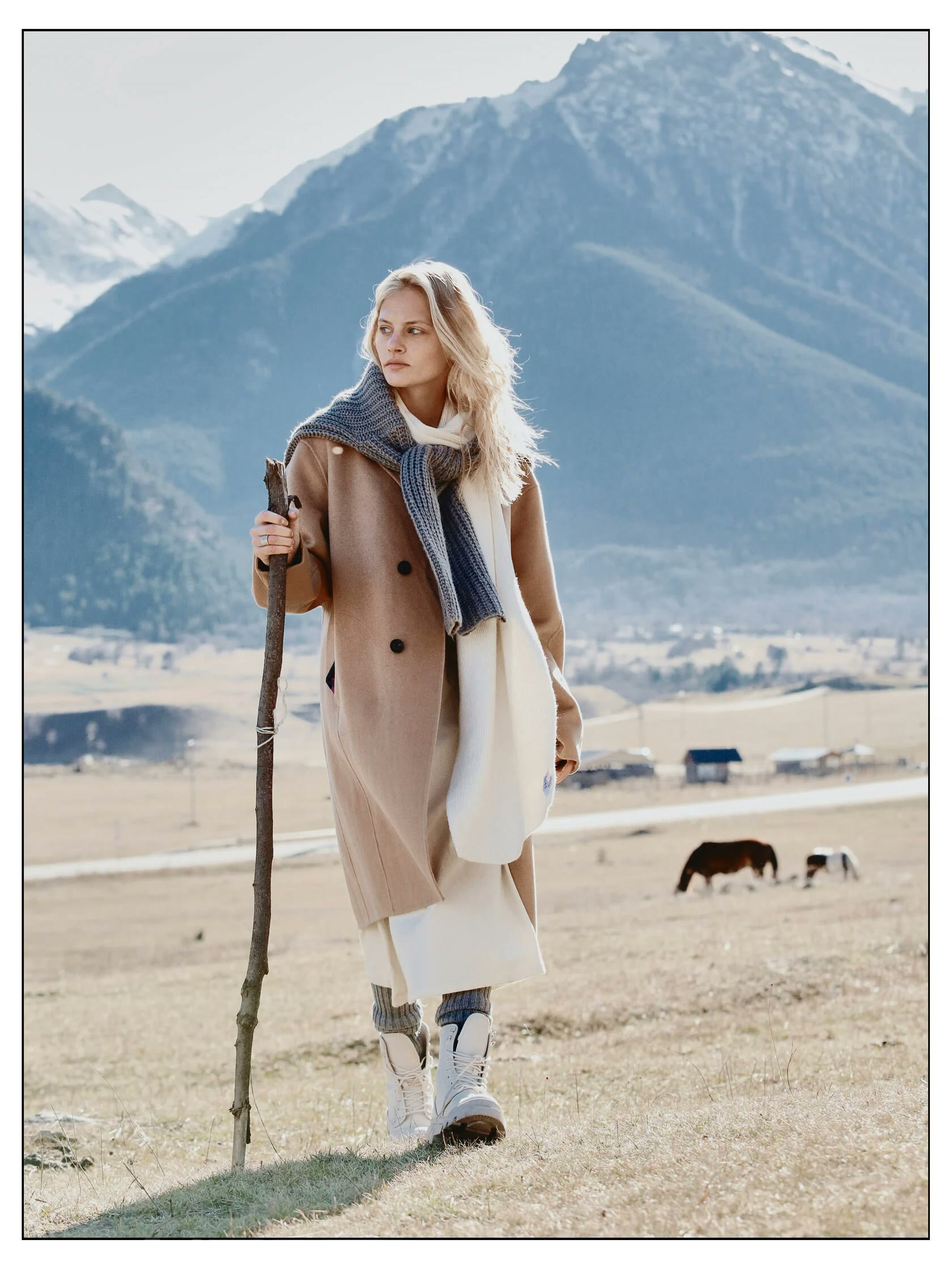
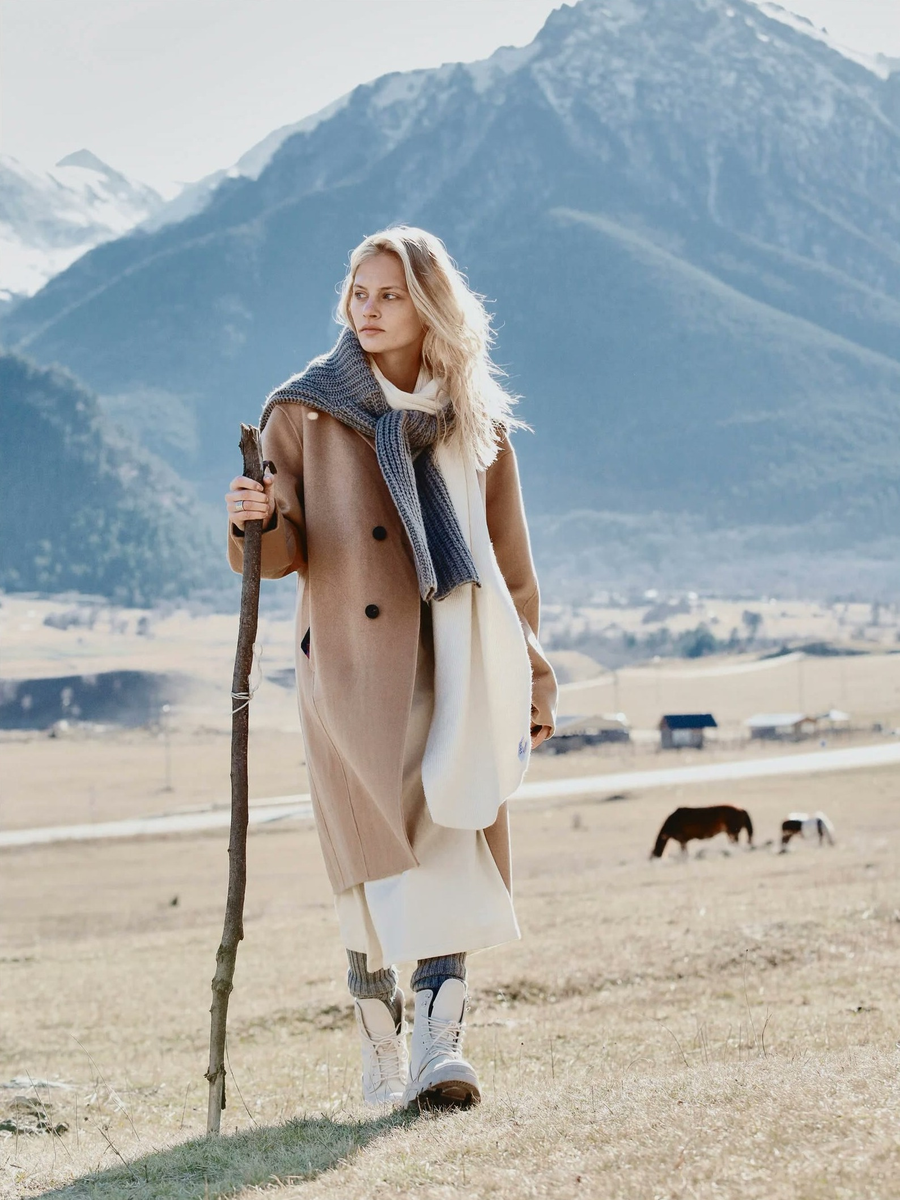
street: trim baked frames (single black contour), reorder Kaliningrad up, add final free-layout block (4 photos), tag=Street style only, preview description + og:image

diff --git a/street/index.html b/street/index.html
@@ -3,14 +3,20 @@
 <head>
 <meta charset="utf-8">
 <meta name="viewport" content="width=device-width, initial-scale=1">
-<title>Plotnikov Roman — стритстайл</title>
-<meta name="description" content="Стритстайл-фотография: кампейны для брендов, уличные съёмки для маркетплейсов. Люди, стиль и город.">
+<title>Плотников Роман — фотограф</title>
+<meta name="description" content="Плотников Роман — фотограф и продюсер съёмок под ключ.">
 <meta name="robots" content="noindex">
 <meta property="og:type" content="website">
-<meta property="og:site_name" content="Plotnikov Roman">
-<meta property="og:title" content="Plotnikov Roman — стритстайл">
-<meta property="og:description" content="Стритстайл-фотография: кампейны для брендов и уличные съёмки.">
+<meta property="og:site_name" content="Плотников Роман">
+<meta property="og:title" content="Плотников Роман">
+<meta property="og:description" content="Фотограф и продюсер съёмок под ключ.">
 <meta property="og:url" content="https://plotnikovprod.ru/street/">
+<meta property="og:image" content="https://plotnikovprod.ru/street/img/dombay-2.jpg">
+<meta property="og:image:alt" content="Плотников Роман — съёмка">
+<meta name="twitter:card" content="summary_large_image">
+<meta name="twitter:title" content="Плотников Роман">
+<meta name="twitter:description" content="Фотограф и продюсер съёмок под ключ.">
+<meta name="twitter:image" content="https://plotnikovprod.ru/street/img/dombay-2.jpg">
 <style>
 :root{
   --bg:#ffffff; --surface:#efefef; --ink:#000000; --ink-2:#000000; --muted:#9a9a9a;
@@ -44,6 +50,12 @@ a{color:inherit;text-decoration:none}
 .proj__cap{margin-top:14px;padding:0 2px;font-weight:300;font-size:clamp(.82rem,1.05vw,.95rem);letter-spacing:.01em;text-transform:uppercase;color:var(--ink)}
 .proj__cap .sep{color:var(--ink);opacity:.4;margin:0 .5em;font-weight:300}
 .proj__cap .loc{color:var(--ink)}
+/* финальный блок — свободная раскладка */
+.final{column-count:2;column-gap:var(--gap);margin:clamp(34px,5vw,84px) 0 6px}
+.final figure{break-inside:avoid;margin:0 0 var(--gap);position:relative;overflow:hidden;background:var(--surface);cursor:pointer;border:1px solid var(--line);transition:transform .55s var(--ease),box-shadow .55s var(--ease);will-change:transform}
+.final figure:hover{transform:scale(1.02);z-index:3;box-shadow:0 18px 40px rgba(0,0,0,.16)}
+.final img{width:100%;height:auto;display:block}
+@media (max-width:560px){ .final{column-count:1} }
 
 /* footer */
 .foot{margin-top:34px;padding:8px 2px 40px;display:flex;flex-wrap:wrap;gap:14px 26px;align-items:center;justify-content:space-between}
@@ -76,7 +88,7 @@ a{color:inherit;text-decoration:none}
 
 <header class="mast">
   <div class="mast__brand">Plotnikov Roman</div>
-  <span class="mast__tag">Стритстайл · Street style</span>
+  <span class="mast__tag">Street style</span>
 </header>
 
 <div class="projects" id="projects"></div>
@@ -107,8 +119,8 @@ a{color:inherit;text-decoration:none}
     {cap:['Кампейн для бренда','COCOS MOSCOW','Домбай'], photos:['img/dombay-1.jpg','img/dombay-2.jpg','img/dombay-3.jpg','img/dombay-4.jpg']},
     {cap:['Контент для бренда шуб'], photos:['img/shub-content-1.jpg','img/shub-content-2.jpg','img/shub-content-3.jpg','img/shub-content-4.jpg']},
     {cap:['Кампейн для бренда','COCOS MOSCOW','Териберка, Кольский п-ов'], photos:['img/teriberka-1.jpg','img/teriberka-2.jpg','img/teriberka-3.jpg','img/teriberka-4.jpg']},
-    {cap:['Уличная съёмка пуховиков для маркетплейсов'], photos:['img/puhoviki-1.jpg','img/puhoviki-2.jpg','img/puhoviki-3.jpg','img/puhoviki-4.jpg']},
     {cap:['Кампейн для бренда','Калининград'], photos:['img/kaliningrad-1.jpg','img/kaliningrad-2.jpg','img/kaliningrad-3.jpg','img/kaliningrad-4.jpg']},
+    {cap:['Уличная съёмка пуховиков для маркетплейсов'], photos:['img/puhoviki-1.jpg','img/puhoviki-2.jpg','img/puhoviki-3.jpg','img/puhoviki-4.jpg']},
     {cap:['Уличная съёмка для бренда шуб'], photos:['img/shub-street-1.jpg','img/shub-street-2.jpg','img/shub-street-3.jpg','img/shub-street-4.jpg']}
   ];
 
@@ -134,6 +146,20 @@ a{color:inherit;text-decoration:none}
     sec.appendChild(row); sec.appendChild(cap);
     root.appendChild(sec);
   });
+
+  /* финальный блок — 4 фото, свободная раскладка (masonry) */
+  var FINAL=['img/final-1.jpg','img/final-2.jpg','img/final-3.jpg','img/final-4.jpg'];
+  var fsec=document.createElement('section'); fsec.className='final'; fsec.setAttribute('data-r','');
+  FINAL.forEach(function(src){
+    var fi=FLAT.length; FLAT.push(src);
+    var fig=document.createElement('figure');
+    var img=document.createElement('img'); img.loading='lazy'; img.src=src; img.alt='Plotnikov Roman — съёмка';
+    img.addEventListener('error',function(){fig.style.display='none';});
+    fig.appendChild(img);
+    (function(x){fig.addEventListener('click',function(){openLB(x);});})(fi);
+    fsec.appendChild(fig);
+  });
+  root.appendChild(fsec);
 
   /* lightbox */
   var lb=document.getElementById('lb'), lbImg=document.getElementById('lbImg'), lbCount=document.getElementById('lbCount'), idx=0;
